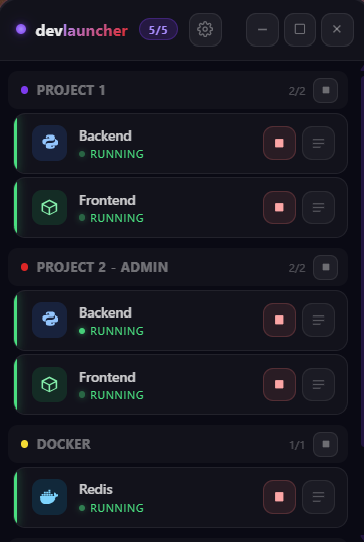
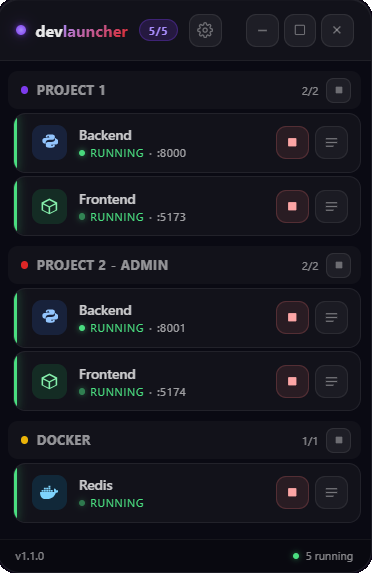
Update the README screenshot and platform notes

diff --git a/README.md b/README.md
@@ -2,11 +2,11 @@
 
 [![CI](https://github.com/benjaminpavone/dev-launcher/actions/workflows/ci.yml/badge.svg)](https://github.com/benjaminpavone/dev-launcher/actions/workflows/ci.yml)
 
-A small, transparent, always-on-top Windows widget to start, stop and monitor your local dev servers — uvicorn, npm/Vite, Docker containers — without keeping a terminal open for each of them.
+A small, transparent, always-on-top desktop widget to start, stop and monitor your local dev servers — uvicorn, npm/Vite, Docker containers — without keeping a terminal open for each of them.
 
-**Windows only** for now; a macOS version is planned.
+**Windows**: download below. **macOS**: runs from source (see [Development](#development)); a packaged macOS version is planned.
 
-<p align="center"><img src="docs/screenshot.png" alt="Dev Launcher widget with two projects and a Docker service running" width="300"></p>
+<p align="center"><img src="docs/screenshot.png" alt="Dev Launcher widget with two projects and a Docker service running, each server showing its port" width="300"></p>
 
 ## Download
 
@@ -62,14 +62,14 @@ Get-CimInstance Win32_Process | Where-Object { $_.CommandLine -match 'uvicorn' }
 
 ## Development
 
-Built with **Tauri 2** (Rust) and **Vue 3**. Prerequisites: [Rust](https://rustup.rs/), [Node.js](https://nodejs.org/) and the [Tauri prerequisites for Windows](https://tauri.app/start/prerequisites/).
+Built with **Tauri 2** (Rust) and **Vue 3**. Prerequisites: [Rust](https://rustup.rs/), [Node.js](https://nodejs.org/) and the [Tauri prerequisites](https://tauri.app/start/prerequisites/) for your system.
 
 ```bash
 npm install
 npm run tauri dev
 ```
 
-The CI runs Clippy and the unit tests on Windows for each push. To build the installers and publish a release, see [docs/RELEASING.md](docs/RELEASING.md).
+The CI runs Clippy and the unit tests on Windows and macOS for each push. To build the installers and publish a release, see [docs/RELEASING.md](docs/RELEASING.md).
 
 ## License
 
